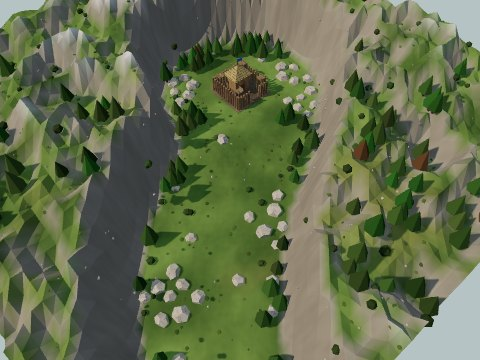
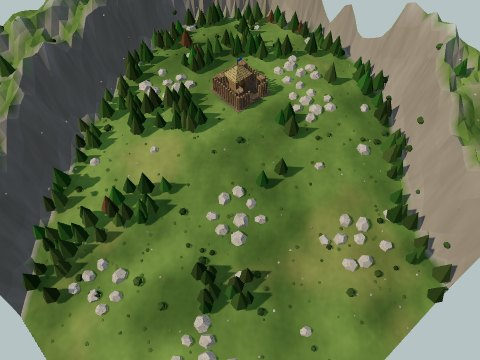
Mountain pass: the open ground follows Jack's line (mountains only along the top-left, top and right), with an uneven edge; raiders come in along the open left and bottom edges
Claude-Session: https://claude.ai/code/session_01AE8sRRsVdpH9ETfQvtppox

diff --git a/index.html b/index.html
@@ -484,24 +484,34 @@ const lock = new Uint8Array(V * V), road = new Uint8Array(N * N);
 let occB = new Array(N * N).fill(null);
 // the Meadow river's centre line
 const meadowRiverX = z => SIZE * .68 + Math.sin(z * .12) * 5 + Math.sin(z * .05 + 1) * 3;
-// Mountain pass: the castle on a plateau at the top right, one wide pass climbing to it from the bottom-left corner,
-// steep mountains everywhere else; nobody walks or builds outside the plateau and the pass (passOpen)
-const PASS = { ax: -2, az: 58, bx: 31, bz: 28, plate: 10.5 };
+// Mountain pass: the castle on a plateau at the top right; open ground (the pass) sweeps down from it to the left and bottom
+// edges, bounded by an uneven line of mountains along the top-left, top and right (PASS_EDGE, Jack's sketch); nobody walks or
+// builds beyond it (passOpen)
+const PASS = { plate: 9.5 };
+const PASS_EDGE = [[-3, 27], [0, 26.4], [8.9, 18.5], [19.2, 11.2], [28.8, 5.4], [40.4, 2.4], [47.9, 5.4], [52.7, 10.5], [55.5, 19.9], [54.8, 27.2], [51.4, 35.1], [46.6, 41.7], [40.4, 48.2], [34.9, 57.6], [34, 60]];
+const PASS_POLY = PASS_EDGE.concat([[-3, 60]]);
 function passAt(x, z) {
-  const dx = PASS.bx - PASS.ax, dz = PASS.bz - PASS.az, L = Math.hypot(dx, dz), ux = dx / L, uz = dz / L;
-  const t = clamp(((x - PASS.ax) * ux + (z - PASS.az) * uz) / L, 0, 1), qx = PASS.ax + dx * t, qz = PASS.az + dz * t;
-  const side = Math.sign((x - PASS.ax) * -uz + (z - PASS.az) * ux) || 1, wob = 1.6 * Math.sin(t * 7);
-  return { t, across: Math.abs(Math.hypot(x - qx, z - qz) * side - wob), half: 6.5 + 1.5 * t, plate: Math.hypot(x - KX, z - KZ) };
+  let inside = false, d = 1e9;
+  for (let i = 0, j = PASS_POLY.length - 1; i < PASS_POLY.length; j = i++) {
+    const [xi, zi] = PASS_POLY[i], [xj, zj] = PASS_POLY[j];
+    if ((zi > z) !== (zj > z) && x < (xj - xi) * (z - zi) / (zj - zi) + xi) inside = !inside;
+  }
+  for (let i = 0; i < PASS_EDGE.length - 1; i++) {            // distance to the mountain line
+    const [ax, az] = PASS_EDGE[i], [bx, bz] = PASS_EDGE[i + 1], dx = bx - ax, dz = bz - az, t = clamp(((x - ax) * dx + (z - az) * dz) / (dx * dx + dz * dz), 0, 1);
+    d = Math.min(d, Math.hypot(x - ax - dx * t, z - az - dz * t));
+  }
+  const wob = 3.2 * (fbm(x * .11 + 7, z * .11 + 2) - .5) + 1.2 * (vnoise(x * .35, z * .35) - .5);   // an uneven, unsymmetrical edge
+  return { depth: (inside ? d : -d) + wob, plate: Math.hypot(x - KX, z - KZ) };
 }
-const passOpen = (x, z) => { const p = passAt(x, z); return p.across < p.half - .3 || p.plate < PASS.plate - .3; };
+const passOpen = (x, z) => passAt(x, z).depth > .3;
 function passHeight(x, z) {
   const p = passAt(x, z), ridge = 1 - Math.abs(fbm(x * .17 + 5, z * .17 + 9) * 2 - 1);
   const mount = 8 + 6.5 * fbm(x * .11, z * .11) + 4.5 * ridge * ridge + 1.5 * vnoise(x * .4, z * .4);
-  const floor = 1 + 5 * Math.pow(p.t, 1.2) + .4 * fbm(x * .2, z * .2), plateH = 6 + .3 * fbm(x * .2 + 3, z * .2);
-  const inPass = sstep(p.half + 3, p.half, p.across), inPlate = sstep(PASS.plate + 3, PASS.plate, p.plate);
-  let h = lerp(mount, floor, inPass); h = lerp(h, plateH, inPlate);
-  if (p.plate < PASS.plate + 2.5 && inPass > .5) h = Math.min(h, plateH);
-  return h;
+  // the ground falls from the castle's plateau (6 m) to about 1 m at the bottom-left corner, rolling a little on the way
+  const floor = 6 - 5 * sstep(PASS.plate, 48, p.plate) + 1.1 * (fbm(x * .09 + 4, z * .09 + 8) - .5) * sstep(PASS.plate, PASS.plate + 8, p.plate);
+  const plateH = 6 + .3 * fbm(x * .2 + 3, z * .2);
+  let h = lerp(floor, plateH, sstep(PASS.plate + 2, PASS.plate, p.plate));
+  return lerp(mount, h, sstep(-2.6, .4, p.depth));              // 3 m cliffs up to the mountains
 }
 function genHeight(x, z) {
   if (MAP === 'pass') return passHeight(x, z);
@@ -974,11 +984,12 @@ function genTrees() {
     if (MAP === 'pass') {
       // a forest wrapped round the castle except toward the pass, trees along the pass's sides, and (out of reach, for looks)
       // pines on the gentler mountain slopes
-      const ang = Math.atan2(z - KZ, x - KX) * 180 / Math.PI, open = passOpen(x, z), p = passAt(x, z);
+      const ang = Math.atan2(z - KZ, x - KX) * 180 / Math.PI, p = passAt(x, z), open = p.depth > .3;
       if (open) {
-        const ring = dk > 7.2 && dk < PASS.plate - .6 && !(ang > 95 && ang < 170) && hash(x * 1.3, z * .7) < .62;
-        const side = p.plate > PASS.plate && p.across > p.half - 2.2 && hash(x * 1.7, z * .9) < .35;
-        if ((ring || side) && !passRockSite(x, z, 1.8)) trees.push({ x, z, s: .75 + hash(z, x) * .5, k: 1 });
+        const ring = dk > 7.2 && dk < PASS.plate + 1 && !(ang > 95 && ang < 170) && hash(x * 1.3, z * .7) < .62;
+        const edge = dk > PASS.plate && p.depth < 2.6 && hash(x * 1.7, z * .9) < .4;          // along the foot of the mountains
+        const clump = dk > PASS.plate + 2 && fbm(x * .12 + 31, z * .12 + 17) > .6 && hash(x * .9, z * 1.9) < .5;
+        if ((ring || edge || clump) && !passRockSite(x, z, 1.8)) trees.push({ x, z, s: .75 + hash(z, x) * .5, k: 1 });
       } else if (slopeAt(x, z) < 1.2 && hAt(x, z) < 14 && hash(x * 2.3, z * 1.9) < .18) trees.push({ x, z, s: .7 + hash(z, x) * .5, k: 1, deco: true });
       continue;
     }
@@ -1010,12 +1021,9 @@ const rockGeo = new THREE.DodecahedronGeometry(.75, 0), rockMat = mat('#958f84')
 // River isle: three outcrops just beyond the far bank, between the bridges
 const isleRockSite = (x, z, d) => MAP === 'isle' && ISLE_ROCKS.some(g => { const a = g * Math.PI / 180, R = isleR(a) + 6.5; return Math.hypot(x - KX - Math.cos(a) * R, z - KZ - Math.sin(a) * R) < d; });
 // Mountain pass: plenty of stone, in outcrops on the plateau east and south of the castle, north-west of it, and along the pass
-const PASS_ROCKS = [[45.5, 23.5], [42.5, 28.8], [30.5, 15.5], [24, 35.5, 1], [16.5, 41.5, -1], [9.5, 48.5, 1]];
+const PASS_ROCKS = [[45.5, 23.5], [42.5, 28.8], [30, 13], [24, 35], [12, 44], [8, 31], [32, 46]];
 const passRockSite = (x, z, d) => MAP === 'pass' && passRockCentres().some(([cx, cz]) => Math.hypot(x - cx, z - cz) < d + 2.2);
-function passRockCentres() {   // pass outcrops sit to one side of the track, inside the walls
-  return PASS_ROCKS.map(([x, z, side]) => { if (!side) return [x, z]; const p = passAt(x, z), dx = PASS.bx - PASS.ax, dz = PASS.bz - PASS.az, L = Math.hypot(dx, dz);
-    const qx = PASS.ax + dx * p.t, qz = PASS.az + dz * p.t, o = side * (p.half - 2.6); return [qx - dz / L * o, qz + dx / L * o]; });
-}
+const passRockCentres = () => PASS_ROCKS;
 function genRocks() {
   rocks.forEach(r => scene.remove(r.mesh)); rocks = [];
   const addRock = (x, z, s0, rot) => { const mesh = new THREE.Mesh(rockGeo, rockMat); mesh.castShadow = mesh.receiveShadow = true; mesh.rotation.set(...rot); rocks.push({ x, z, amount: ROCK_STONE, s0, mesh }); scene.add(mesh); };
@@ -1027,7 +1035,7 @@ function genRocks() {
     }
     for (let n = 0, k = 0; n < 4000 && k < 14; n++) {
       const x = 1 + Math.random() * (SIZE - 2), z = 1 + Math.random() * (SIZE - 2);
-      if (!passOpen(x, z) || Math.hypot(x - KX, z - KZ) < 7 || passAt(x, z).across < 2.5 || rocks.some(q => Math.hypot(q.x - x, q.z - z) < 3)) continue;
+      if (!passOpen(x, z) || Math.hypot(x - KX, z - KZ) < 7 || rocks.some(q => Math.hypot(q.x - x, q.z - z) < 3)) continue;
       addRock(x, z, .85 + Math.random() * .5, [Math.random() * 3, Math.random() * 3, Math.random() * 3]); k++;
     }
     return;
@@ -3052,9 +3060,9 @@ function distRect(B, x, z) { const e = B.ev; return Math.hypot(Math.max(e.x0 - x
 function nearestBuilding(x, z, maxD = 1e9, ok = null) { let best = null, bd = maxD; for (const B of buildings) { if (DEF[B.type].decor || (ok && !ok(B))) continue; const d = distRect(B, x, z); if (d < bd) { bd = d; best = B; } } return best; }
 function edgePoint() {
   const C = castleB(), dp = C && doorPoint(C);   // a spawn must have a walkable route to the castle's door
-  if (MAP === 'pass') {                          // always the foot of the pass, at the bottom-left corner
-    for (let n = 0; n < 120; n++) {
-      const t = Math.random() * 22, [x, z] = Math.random() < .5 ? [1 + t, SIZE - 1.2] : [1.2, SIZE - 1 - t];
+  if (MAP === 'pass') {                          // always the open stretch of the left and bottom edges, below the mountains
+    for (let n = 0; n < 160; n++) {
+      const t = Math.random() * 30, [x, z] = Math.random() < .5 ? [1 + t, SIZE - 1.2] : [1.2, SIZE - 1 - t];
       if (passOpen(x, z) && cellPass(cellAt(x, z), 2) && (!dp || findPath(x, z, dp.x, dp.z, 2))) return { x, z };
     }
     return { x: 4, z: SIZE - 1.5 };

diff --git a/CLAUDE.md b/CLAUDE.md
@@ -57,7 +57,7 @@ The whole game is currently one self-contained file: `index.html` (~165 KB, thre
 - Three maps, picked on a dark title screen ("Medieval Town Defense", "Choose map"; `#mapPick` covers everything, visible from the first paint so the game never shows behind it) on entry and on Restart / Play again (`#mapPick`, `showMapPick`; each card shows a picture of the real map, `maps/meadow.jpg` / `maps/isle.jpg` / `maps/pass.jpg`, rendered by `node tools/render/maps.js [--three …]` (re-run after changing a map); the game waits paused underneath; last choice in `localStorage['mtd-map']`, highlighted). `?map=meadow|isle|pass` (and `?debug` / `?gallery`) skip the picker; a stored choice that isn't a known map is ignored. `MAP` is read by `genHeight`, `genTrees`, `genRocks`, `canStand`; `KX/KZ` (castle site) are set per map in `startGame` (Meadow 19,27 / cells 8–10,12–14; River isle 27,27 / cells 12–14,12–14; Mountain pass 37,21 / cells 17–19,9–11).
 - **Meadow**: the original map: a winding river on the east side (`meadowRiverX`), crossed by one fixed bridge square across it on the castle's row (`bridgeRays`). Rocks: a stony patch between the castle and the river north of the bridge (8) plus up to 48 scattered (≈510 stone). Nobody wades any river (`canStand` modes 1 and 2 need h ≥ .3), so raiders spawning east of it must cross the bridge.
 - **River isle**: the castle on a flat island inside a wobbly ring of river (`ISLE.r` 16.6 m, `isleR(angle)`), hills beyond the far bank. Two more rivers flow out of the ring to the map's edge, north-east and south-west (`isleOutN`/`isleOutS`, carved in `genHeight` outside the ring only), so the far bank is split in two. Three fixed, free timber footbridges at `ISLE_BRIDGES` (−90°, 30°, 150°), each radial (square across the ring). Bridges at any angle (`genBridges` from `bridgeRays`: march along a ray; each end runs on past the water until it lands on flat ground at the bank top (`flat`: height > .5, slope < .6 on the centre line and 1.3 m either side, up to 6 m), so the deck is level with the ground beside its ends; trestles wherever the deck is over 1 m above the ground; a bridge is `x0, z0, dx, dz, L`, deck `DECK_W` 1.9; `bridgeT`/`bridgeW`/`onDeck`; `bridgeCell[n]` = index + 1 for every cell the deck touches, `b.ends` its end cells). `deckY(b, t)` arches the deck (`BRIDGE_RISE` .45); units stand at `walkY` (the deck inside its strip, else the ground) everywhere they are drawn; `cellPass` lets everyone path over bridge cells, `canStand` only on the deck strip; A* steps on and off a bridge only through its end cells; `routePoints` turns a run of bridge cells into: a point on the ground 0.8 m in front of the entry end, the deck's end, its far end, the ground beyond (on-deck starts/targets keep `bridgeWaypoint` centre-line points); a unit standing on the ground in a cell a deck touches counts as off the bridge (`deckAt`, in `findPath` and `clearLine`), else it was routed up the deck's side and stood stuck on the bank; raiders can't wade (`canStand` mode 2 needs h ≥ .3). Nothing can be built or pathed on a bridge ("Bridge"). Model: `makeBridge` (planks across the arch, two log stringers, trestles where it crosses water, log railings, grey stone landings), `buildBridges` after `syncTerrain`. Woods on the island (clear round the castle and along the way to each bridge), forest beyond the river; stone only beyond the river: three outcrops between the bridges (`ISLE_ROCKS`, `isleRockSite`, 7 rocks each) plus 16 scattered rocks, so masons either live by the castle and walk via a bridge or build out by the rocks, exposed.
-- **Mountain pass** (`MAP` 'pass'): no water. The castle on a plateau at the top right (`PASS.plate` 10.5 m round it, height 6), one wide pass (13–16 m, winding a little) climbing from the bottom-left corner (`PASS` a→b, floor 1 → 6 m) to it, rough mountains everywhere else (8–18 m, ridged noise, snow over 16 m via `SNOW_C` in `recolor`), with 3 m cliffs between (`passHeight`, `passAt`). `passOpen(x, z)` is the only ground anyone may stand on, path through or build on (`canStand`, `cellPass`, `evaluate` "Too steep"), so every raider comes up the pass; they spawn at its foot (`edgePoint`). Trees: a forest ring round the castle except toward the pass, some along the pass's sides, and unreachable `deco` pines on the mountains (`treeFree` skips them). Stone is plentiful: outcrops at `PASS_ROCKS` (three on the plateau, three beside the track in the pass, 8 rocks each) plus 14 scattered (~60 rocks). Rules (`MAP_RULES.pass`, applied by `mapRules()` in `startGame`): one 600 s day, then night 1 = 70 raiders (36 spear, 18 sword, 14 archer, 2 captains, hp ×1.2), a 150 s day, night 2 = 100 (46/28/22 + 4 captains, hp ×1.45); raiders spawn every `SPAWN_GAP` .5 s; same starting resources. The camera starts looking up the pass (`yaw` −.72). Only a raider's bigger parts (bounding radius ≥ .16) cast shadows (`spawnEnemy`), as up to 100 can be on screen.
+- **Mountain pass** (`MAP` 'pass'): no water. The castle on a plateau at the top right (`PASS.plate` 9.5 m round it, height 6); the open ground (the pass) sweeps down from it to the open stretches of the left and bottom edges (about 1 m at the bottom-left corner, rolling a little), bounded by Jack's uneven line of mountains along the top-left, top and right (`PASS_EDGE` polyline, `PASS_POLY` closes it round the bottom-left corner; `passAt` gives the depth inside it, wobbled by noise so it isn't symmetrical); rough mountains beyond (8–18 m, ridged noise, snow over 16 m via `SNOW_C` in `recolor`) behind 3 m cliffs (`passHeight`). `passOpen(x, z)` (depth > .3) is the only ground anyone may stand on, path through or build on (`canStand`, `cellPass`, `evaluate` "Too steep"), so every raider comes up the open ground from the left and bottom edges, where they spawn (`edgePoint`). Trees: a forest ring round the castle except toward the south-west, trees along the foot of the mountains, clumps in the open, and unreachable `deco` pines on the mountains (`treeFree` skips them). Stone is plentiful: outcrops at `PASS_ROCKS` (seven, 8 rocks each) plus 14 scattered (~70 rocks). Rules (`MAP_RULES.pass`, applied by `mapRules()` in `startGame`): one 600 s day, then night 1 = 70 raiders (36 spear, 18 sword, 14 archer, 2 captains, hp ×1.2), a 150 s day, night 2 = 100 (46/28/22 + 4 captains, hp ×1.45); raiders spawn every `SPAWN_GAP` .5 s; same starting resources. The camera starts looking up the pass (`yaw` −.72). Only a raider's bigger parts (bounding radius ≥ .16) cast shadows (`spawnEnemy`), as up to 100 can be on screen.
 - Raiders route on the cell grid with `walkTo` (mode 2) toward a fixed point on their target's near side (`e.tp`, reset on each 3 s retarget), straight `steer` only within 3 m; a wall in the way (stuck or 3.5 s without progress) is attacked as before. Spawn points (`edgePoint`) must be walkable (`cellPass` mode 2) and have a route to the castle's door (a route to the castle's centre never exists: it is inside the building), else raiders spawned on steep edge hills stood stuck.
 - No building over a rock (`evaluate`: "Rocks"), so stone is never buried.
 - **Map sides** (`buildEdges`, from `syncTerrain`): solid earth walls from the ground's edge down to `EDGE_BASE` −4 (vertex-coloured: grassy lip, soil, darker below) and a water cross-section where a river runs off the edge, so the map reads as a block of land from low angles. (A 50 m scenery skirt beyond the map was tried and dropped.)
